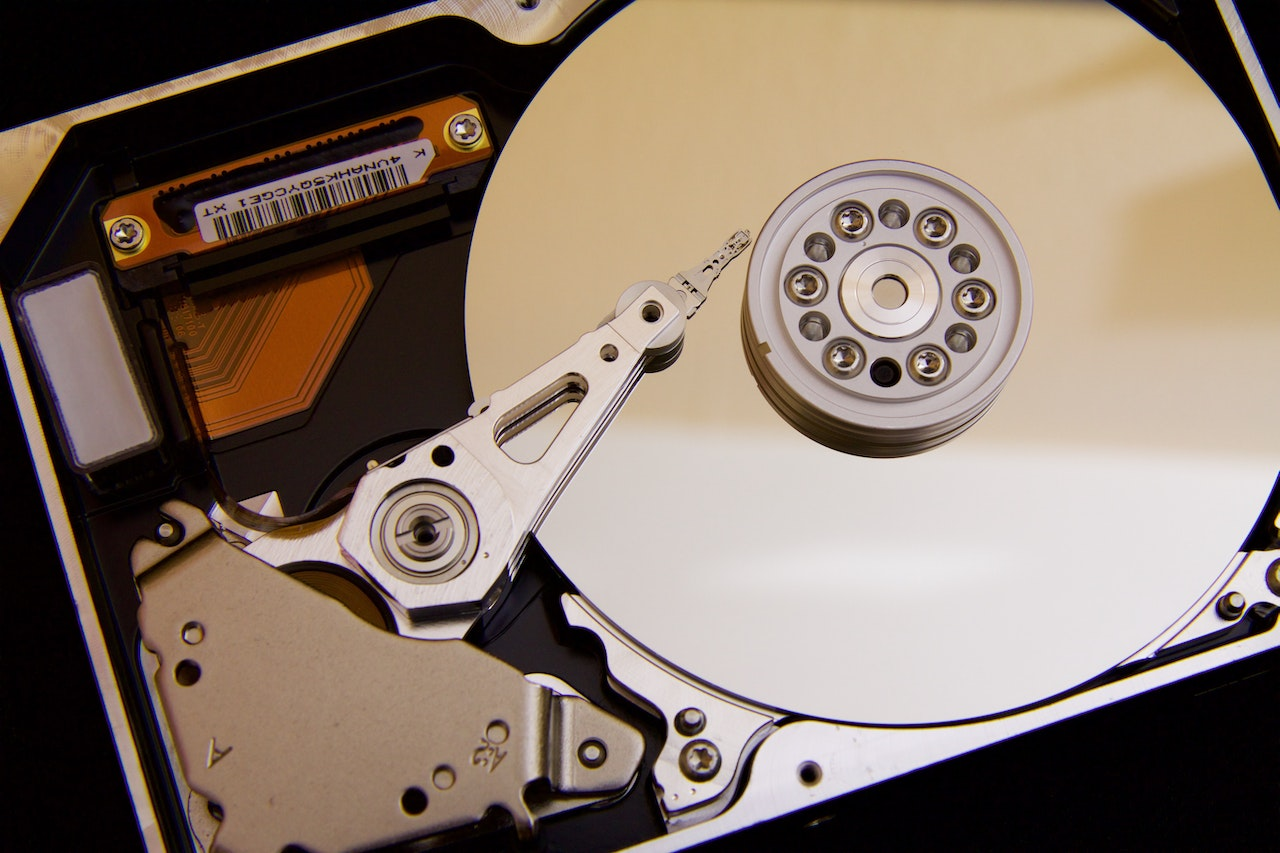
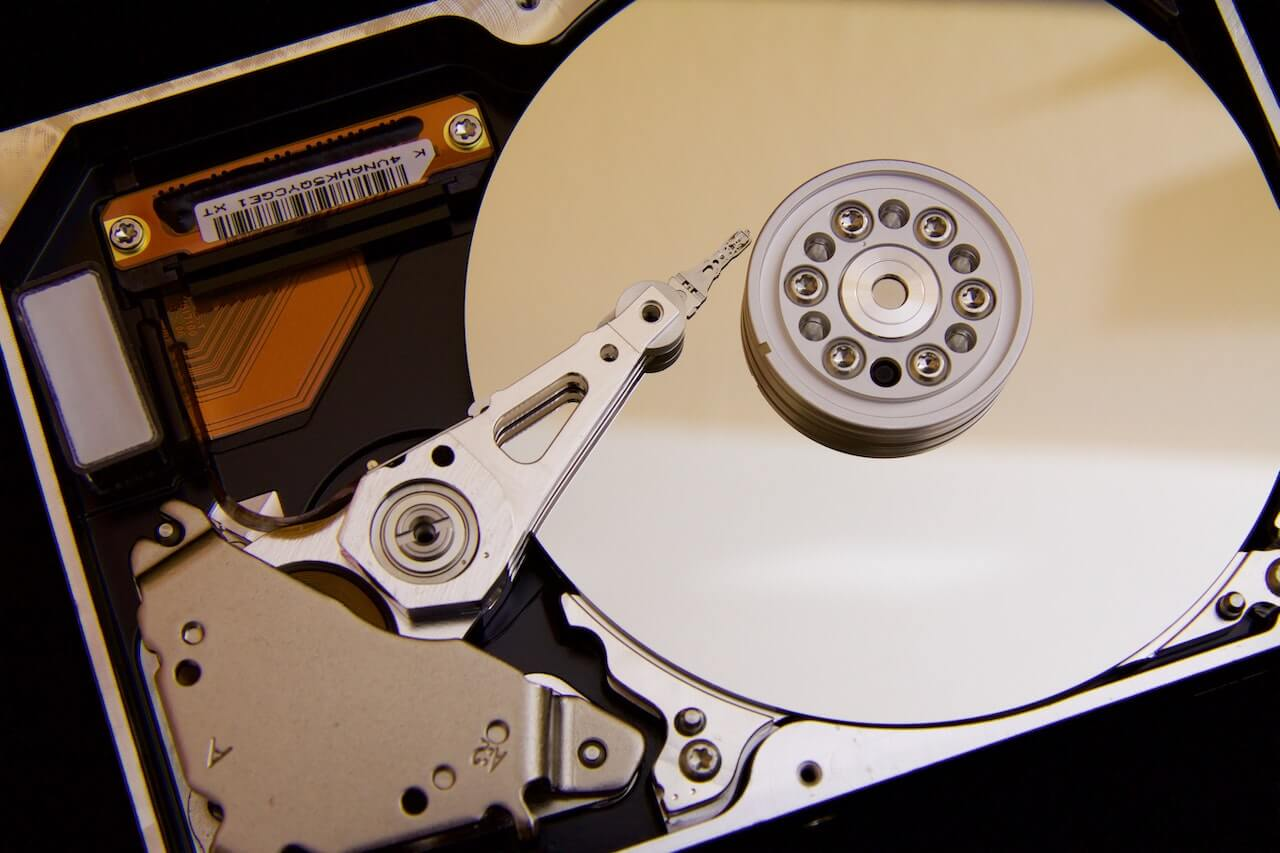
optimizacion imagenes

diff --git a/index.html b/index.html
@@ -53,7 +53,7 @@
 
                     <div class="col-12 col-lg-6 col-md-6 .col-sm-6 border-end-neon" id="hdd-div">
                         <h2 class="mb-4" data-aos="fade-left" data-aos-delay="300">HDD (Disco Duro)</h2>
-                        <img data-aos="fade-right" data-aos-delay="550" src="./img/hard-disc.png" alt="" class="hard-disc" id="hdd-img">
+                        <img data-aos="fade-right" data-aos-delay="550" src="./img/hhd.png" alt="" class="hard-disc" id="hdd-img">
                         <div class="d-block w-100" style="margin-top:50px;">
                             <button data-aos="zoom-in"  class="btn-neon" type="button" 
                             data-bs-toggle="collapse" data-bs-target="#collapseWidthExample" aria-expanded="false" aria-controls="collapseWidthExample">
@@ -585,6 +585,7 @@
                     autorizado a datos sensibles pueden tener graves consecuencias.
                 </p>
                 <div class="row">
+                    <h3 class="text-center" data-aos="fade-up" data-aos-delay="300">Algunos métodos para proteger los datos son los siguientes:</h3>
                     <div class="col-4" data-aos="fade-up" data-aos-delay="400">
                         <div class="myCard">
                             <div class="innerCard">
@@ -889,7 +890,7 @@
     <script src="https://unpkg.com/aos@2.3.1/dist/aos.js"></script>
     <script>        /*Inicializacion*/
         AOS.init({
-            delay:150
+            delay:150,
         });
 
     </script>

diff --git a/css/styles.css b/css/styles.css
@@ -153,6 +153,7 @@ header{
     background: linear-gradient(rgba(5,7,8, 0.3), rgba(5,7,8, 0.4)), url(./../img/hard_disc.jpg);
     /*Parallax*/
     background-attachment: fixed;
+    background-size:cover;
     background-position:center;
     background-repeat: repeat;
 

diff --git a/js/main.js b/js/main.js
@@ -13,7 +13,7 @@ hddDiv.addEventListener("mouseenter",()=>{
 })
 hddDiv.addEventListener("mouseleave",()=>{
     // console.log("mouse dejando de hdd");
-    hddImg.src="./img/hard-disc.png";
+    hddImg.src="./img/hhd.png";
 
 })
 
